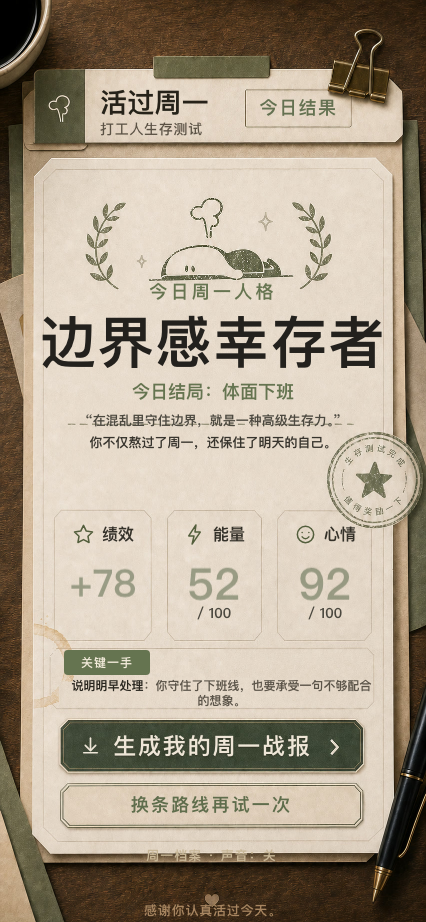
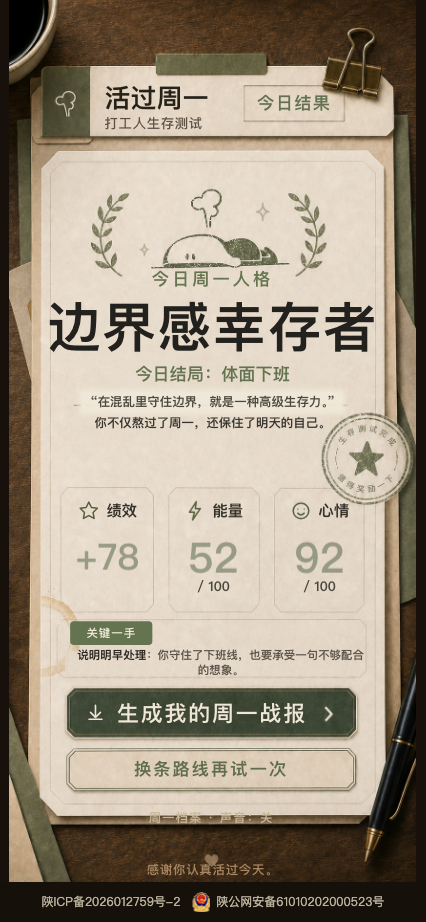
Fit UI to viewport and refine result layouts

diff --git a/src/components/fixed-result/FixedResultScreen.tsx b/src/components/fixed-result/FixedResultScreen.tsx
@@ -5,7 +5,6 @@ import type { LocalHistoryEntry } from "../../localHistory";
 import type { ResultPresentation } from "../../resultPresentation";
 import "../../styles/fixed-result.css";
 import { PrintIcon } from "../PrintIcon";
-import { ViewportAssist } from "../ViewportAssist";
 import type { StatViewModel } from "../visualTypes";
 import { SkinIcon, type SkinIconName } from "../skin/SkinIcon";
 
@@ -308,40 +307,6 @@ export function FixedResultScreen({
 
         <p className="ms-fixed-result-thanks">感谢你认真活过今天。</p>
 
-        {!resultImageUrl ? (
-          <ViewportAssist actionBottom={878} className="ms-viewport-assist--result">
-            <div
-              aria-hidden={archiveOpen ? "true" : undefined}
-              hidden={archiveOpen}
-              inert={archiveOpen ? true : undefined}
-            >
-              <button
-                aria-label="生成我的周一战报（固定操作）"
-                className="ms-viewport-assist__primary"
-                onClick={onCreateResultImage}
-                type="button"
-              >
-                生成我的周一战报
-              </button>
-              <button
-                aria-label="换条路线再试一次（固定操作）"
-                className="ms-viewport-assist__secondary"
-                onClick={onRestart}
-                type="button"
-              >
-                换条路线再试一次
-              </button>
-              <button
-                aria-label={`打开周一档案，声音已${soundEnabled ? "开启" : "关闭"}`}
-                className="ms-viewport-assist__archive"
-                onClick={(event) => openArchive(event.currentTarget)}
-                type="button"
-              >
-                周一档案 · 声音：{soundEnabled ? "开" : "关"}
-              </button>
-            </div>
-          </ViewportAssist>
-        ) : null}
       </div>
 
       {resultImageUrl ? (

diff --git a/src/components/fixed-screen/FixedScreenStage.tsx b/src/components/fixed-screen/FixedScreenStage.tsx
@@ -1,4 +1,4 @@
-import { useEffect, useState, type ReactNode } from "react";
+import { useLayoutEffect, useRef, useState, type ReactNode } from "react";
 import "../../styles/fixed-screen.css";
 
 const STAGE_WIDTH = 426;
@@ -8,29 +8,32 @@ export interface FixedScreenStageProps {
   children: ReactNode;
 }
 
-function getWidthScale() {
-  if (typeof window === "undefined") {
-    return 1;
-  }
-
-  return Math.min(window.innerWidth / STAGE_WIDTH, 1);
+function getContainedScale(width: number, height: number) {
+  return Math.min(width / STAGE_WIDTH, height / STAGE_HEIGHT, 1);
 }
 
 export function FixedScreenStage({ children }: FixedScreenStageProps) {
-  const [scale, setScale] = useState(getWidthScale);
+  const pageRef = useRef<HTMLElement>(null);
+  const [scale, setScale] = useState(1);
 
-  useEffect(() => {
-    function syncScale() {
-      setScale(getWidthScale());
+  useLayoutEffect(() => {
+    const page = pageRef.current;
+    if (!page) {
+      return;
     }
 
+    const syncScale = () => {
+      setScale(getContainedScale(page.clientWidth, page.clientHeight));
+    };
+
+    const observer = new ResizeObserver(syncScale);
+    observer.observe(page);
     syncScale();
-    window.addEventListener("resize", syncScale);
-    return () => window.removeEventListener("resize", syncScale);
+    return () => observer.disconnect();
   }, []);
 
   return (
-    <main className="ms-fixed-screen-page">
+    <main className="ms-fixed-screen-page" ref={pageRef}>
       <div
         className="ms-fixed-screen-viewport"
         style={{

diff --git a/src/components/fixed-round/FixedRoundStage.tsx b/src/components/fixed-round/FixedRoundStage.tsx
@@ -1,4 +1,4 @@
-import { useEffect, useState, type ReactNode } from "react";
+import { useLayoutEffect, useRef, useState, type ReactNode } from "react";
 import "../../styles/fixed-round.css";
 
 const STAGE_WIDTH = 426;
@@ -8,29 +8,32 @@ export interface FixedRoundStageProps {
   children: ReactNode;
 }
 
-function getWidthScale() {
-  if (typeof window === "undefined") {
-    return 1;
-  }
-
-  return Math.min(window.innerWidth / STAGE_WIDTH, 1);
+function getContainedScale(width: number, height: number) {
+  return Math.min(width / STAGE_WIDTH, height / STAGE_HEIGHT, 1);
 }
 
 export function FixedRoundStage({ children }: FixedRoundStageProps) {
-  const [scale, setScale] = useState(getWidthScale);
+  const pageRef = useRef<HTMLElement>(null);
+  const [scale, setScale] = useState(1);
 
-  useEffect(() => {
-    function syncScale() {
-      setScale(getWidthScale());
+  useLayoutEffect(() => {
+    const page = pageRef.current;
+    if (!page) {
+      return;
     }
 
+    const syncScale = () => {
+      setScale(getContainedScale(page.clientWidth, page.clientHeight));
+    };
+
+    const observer = new ResizeObserver(syncScale);
+    observer.observe(page);
     syncScale();
-    window.addEventListener("resize", syncScale);
-    return () => window.removeEventListener("resize", syncScale);
+    return () => observer.disconnect();
   }, []);
 
   return (
-    <main className="ms-fixed-round-page">
+    <main className="ms-fixed-round-page" ref={pageRef}>
       <div
         className="ms-fixed-round-viewport"
         style={{

diff --git a/src/resultPoster.ts b/src/resultPoster.ts
@@ -4,6 +4,10 @@ import type { ResultPresentation } from "./resultPresentation";
 export const RESULT_POSTER_WIDTH = 853;
 export const RESULT_POSTER_HEIGHT = 1844;
 
+const POSTER_METRIC_CENTERS = [206, 428, 650] as const;
+const POSTER_METRIC_LABEL_Y = 1072;
+const POSTER_METRIC_VALUE_Y = 1120;
+
 function getTitleFontSize(title: string) {
   if (title.length >= 8) {
     return 84;
@@ -194,14 +198,14 @@ export async function createResultPosterDataUrl(backgroundSrc: string, data: Res
 
   context.fillStyle = "#3d4730";
   context.font = getFont(800, 32);
-  context.fillText("绩效", 211, 1162, 220);
-  context.fillText("能量", 434, 1162, 220);
-  context.fillText("心情", 650, 1162, 220);
+  context.fillText("绩效", POSTER_METRIC_CENTERS[0], POSTER_METRIC_LABEL_Y, 196);
+  context.fillText("能量", POSTER_METRIC_CENTERS[1], POSTER_METRIC_LABEL_Y, 196);
+  context.fillText("心情", POSTER_METRIC_CENTERS[2], POSTER_METRIC_LABEL_Y, 196);
 
   context.font = getFont(800, 90);
-  context.fillText(formatPerformance(data.score), 211, 1214, 220);
-  context.fillText(String(data.energy), 434, 1214, 220);
-  context.fillText(String(data.mood), 650, 1214, 220);
+  context.fillText(formatPerformance(data.score), POSTER_METRIC_CENTERS[0], POSTER_METRIC_VALUE_Y, 196);
+  context.fillText(String(data.energy), POSTER_METRIC_CENTERS[1], POSTER_METRIC_VALUE_Y, 196);
+  context.fillText(String(data.mood), POSTER_METRIC_CENTERS[2], POSTER_METRIC_VALUE_Y, 196);
 
   drawKeyChoice(context, data);
 

diff --git a/src/styles/fixed-result.css b/src/styles/fixed-result.css
@@ -127,7 +127,14 @@
 }
 
 .ms-fixed-result-ending__quote {
-  margin: 7px -6px 0;
+  position: relative;
+  z-index: 1;
+  width: fit-content;
+  max-width: calc(100% + 12px);
+  margin: 7px auto 0;
+  padding: 0 8px;
+  background: rgba(239, 232, 216, 0.94);
+  box-shadow: 0 0 6px 4px rgba(239, 232, 216, 0.94);
   color: #4b483f;
   font-size: 13px;
   font-weight: 700;
@@ -506,7 +513,7 @@
   position: relative;
   width: 350px;
   max-height: 829px;
-  overflow-y: auto;
+  overflow: hidden;
   box-sizing: border-box;
   border: 1px solid rgba(104, 87, 61, 0.55);
   border-radius: 3px;
@@ -518,7 +525,6 @@
     inset 0 0 0 6px rgba(121, 99, 68, 0.07);
   padding: 30px 24px 22px;
   color: #343027;
-  overscroll-behavior: contain;
 }
 
 .ms-fixed-result-archive-panel::before {
@@ -816,5 +822,23 @@
 
   .ms-fixed-result-sound-toggle i.is-on::after {
     left: 24px;
+  }
+}
+
+@media (max-height: 700px) {
+  .ms-fixed-result-poster-close,
+  .ms-fixed-result-archive-close {
+    width: 66px;
+    height: 66px;
+  }
+
+  .ms-fixed-result-archive-header {
+    padding-right: 60px;
+  }
+
+  .ms-fixed-result-poster-action,
+  .ms-fixed-result-history-clear > button,
+  .ms-fixed-result-history-clear div button {
+    min-height: 66px;
   }
 }

diff --git a/src/styles.css b/src/styles.css
@@ -1,11 +1,14 @@
 html,
 body,
 #root {
-  min-height: 100dvh;
+  width: 100%;
+  height: 100%;
+  overflow: hidden;
 }
 
 #root {
-  width: 100%;
+  flex: 1 1 auto;
+  min-height: 0;
   background:
     radial-gradient(circle at 5% 4%, var(--ms-white-glow-lg) 0 56px, transparent 58px),
     url("./assets/textures/wood.webp") center / cover fixed,
@@ -13,13 +16,17 @@ body,
 }
 
 html {
+  height: 100dvh;
+  overscroll-behavior: none;
   background: var(--ms-wood-deep) url("./assets/textures/wood.webp") center / cover fixed;
 }
 
 body {
+  display: flex;
+  flex-direction: column;
   margin: 0;
   min-width: 100%;
-  overflow-x: hidden;
+  overscroll-behavior: none;
   background:
     radial-gradient(circle at 5% 4%, var(--ms-white-glow-lg) 0 56px, transparent 58px),
     radial-gradient(circle at 94% 5%, var(--ms-shadow) 0 42px, transparent 44px),
@@ -38,6 +45,7 @@ body {
   justify-content: center;
   gap: 4px 12px;
   width: 100%;
+  flex: 0 0 auto;
   padding: 10px 16px calc(10px + env(safe-area-inset-bottom));
   background: #16100b;
   color: rgba(248, 238, 210, 0.72);

diff --git a/src/styles/fixed-round.css b/src/styles/fixed-round.css
@@ -5,12 +5,13 @@
 
 .ms-fixed-round-page {
   width: 100%;
-  min-width: 100vw;
-  min-height: 100dvh;
+  height: 100%;
+  min-width: 0;
+  min-height: 0;
   display: flex;
-  align-items: flex-start;
+  align-items: center;
   justify-content: center;
-  overflow-x: hidden;
+  overflow: hidden;
   background: #17100b;
   color: #25221b;
   font-family: "PingFang SC", "Noto Sans SC", "Microsoft YaHei", system-ui, sans-serif;
@@ -374,7 +375,7 @@
   position: absolute;
   top: 0;
   left: 116px;
-  width: 210px;
+  width: 220px;
   height: 100%;
   display: flex;
   flex-direction: column;
@@ -395,16 +396,16 @@
 
 .ms-fixed-choice__copy small {
   display: block;
-  max-width: 210px;
-  max-height: 40px;
+  max-width: 220px;
+  max-height: 20px;
   margin-top: 5px;
   overflow: hidden;
   color: #5a5143;
-  font-size: 13.5px;
+  font-size: 12px;
   font-weight: 500;
   line-height: 20px;
-  overflow-wrap: anywhere;
-  text-wrap: balance;
+  text-overflow: ellipsis;
+  white-space: nowrap;
 }
 
 .ms-fixed-tip {

diff --git a/src/components/fixed-feedback/FixedFeedbackScreen.tsx b/src/components/fixed-feedback/FixedFeedbackScreen.tsx
@@ -7,7 +7,6 @@ import {
 } from "../../gameViewModels";
 import "../../styles/fixed-feedback.css";
 import { ChoiceIcon } from "../ChoiceIcon";
-import { ViewportAssist } from "../ViewportAssist";
 import type { ChoiceViewModel, StatViewModel } from "../visualTypes";
 import { SkinIcon, type SkinIconName } from "../skin/SkinIcon";
 
@@ -220,16 +219,6 @@ export function FixedFeedbackScreen({
         <span>{continueLabel}</span>
       </button>
 
-      <ViewportAssist actionBottom={853} className="ms-viewport-assist--feedback">
-        <button
-          aria-label={`${continueLabel}（固定操作）`}
-          className={`ms-viewport-assist__primary${continueEmphasized ? " is-emphasized" : ""}`}
-          onClick={onContinue}
-          type="button"
-        >
-          {continueLabel}
-        </button>
-      </ViewportAssist>
     </section>
   );
 }

diff --git a/src/styles/fixed-screen.css b/src/styles/fixed-screen.css
@@ -5,12 +5,13 @@
 
 .ms-fixed-screen-page {
   width: 100%;
-  min-width: 100vw;
-  min-height: 100dvh;
+  height: 100%;
+  min-width: 0;
+  min-height: 0;
   display: flex;
-  align-items: flex-start;
+  align-items: center;
   justify-content: center;
-  overflow-x: hidden;
+  overflow: hidden;
   background: #17100b;
   color: #25221b;
   font-family: "PingFang SC", "Noto Sans SC", "Microsoft YaHei", system-ui, sans-serif;

diff --git a/src/styles/fixed-intro.css b/src/styles/fixed-intro.css
@@ -94,4 +94,8 @@
   .ms-fixed-intro-overlay {
     padding-top: 282px;
   }
+
+  .ms-fixed-intro-card button {
+    min-height: 66px;
+  }
 }
